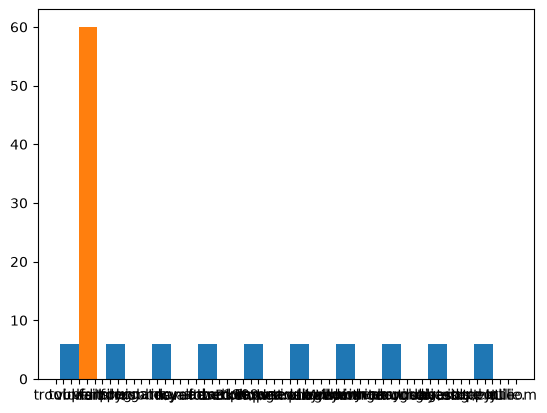
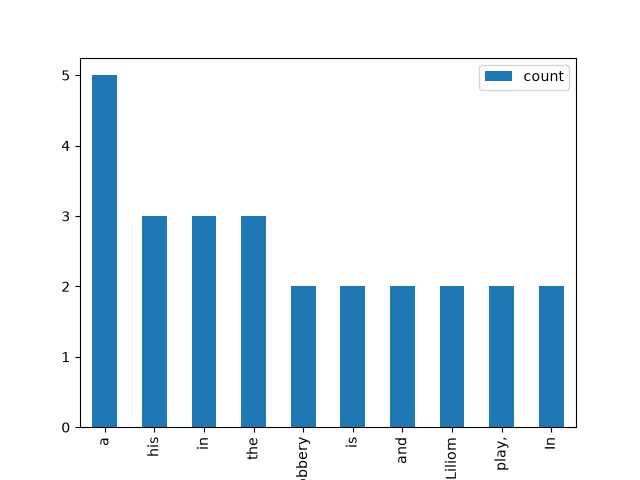
updated

diff --git a/.ipynb_checkpoints/MapReduce_InvertedIndex-checkpoint.py b/.ipynb_checkpoints/MapReduce_InvertedIndex-checkpoint.py
@@ -1,0 +1,69 @@
+from mrjob.job import MRJob
+import pandas as pd
+import matplotlib.pyplot as plt
+import re
+
+# Regular expression to get clean words (removing punctuation)
+WORD_RE = re.compile(r"[\w']+")
+
+class InvertedIndexAndFrequency(MRJob):
+    
+    def mapper_init(self):
+        # Initialize a line counter for this split/file mapper instance
+        self.line_number = 0
+
+    def mapper(self, _, line):
+        self.line_number += 1
+        # break down line into individual clean words 
+        for word in WORD_RE.findall(line):
+            word_lower = word.lower()
+            # Yield word as key, and a dictionary containing line occurrence and a count of 1
+            yield (word_lower, {"line": self.line_number, "count": 1})
+              
+    def reducer(self, word, values):
+        total_count = 0
+        lines_found = set() #datatype store an unordered collection of unique items
+        
+        # add counts and unique line numbers for each word
+        for val in values:
+            total_count += val["count"]
+            lines_found.add(val["line"])
+            
+        # Yield the word mapping to its frequency and sorted list of lines
+        yield (word, {"count": total_count, "lines": sorted(list(lines_found))})
+
+if __name__ == '__main__':
+    # Simulating data execution using 'inputtext1.txt'
+    mr_job = InvertedIndexAndFrequency(args=['inputtext1.txt'])
+    results = []
+    
+    with mr_job.make_runner() as runner:
+        runner.run()
+        for key, value in mr_job.parse_output(runner.cat_output()):
+            results.append({
+                'word': key, 
+                'count': value['count'], 
+                'lines': value['lines']
+            })
+            
+    #print the sample inverted index dictionary items
+    print("Inverted Index Sample (First 5):")
+    print(results[:5])
+    
+    #build Pandas DataFrame
+    wordCount_df = pd.DataFrame(results)
+    
+    print("\nPandas DataFrame Head (Inverted Index Mapping):")
+    print(wordCount_df[['word', 'lines', 'count']].head())
+    
+    # display chart of frequently occuring words
+    top_words = wordCount_df.sort_values(by="count", ascending=False).head(10)
+    print("\nTop 10 Most Frequent Words:")
+    print(top_words[['word', 'count']])
+    
+    #plot
+    top_words.plot(x="word", y="count", kind="bar", color="skyblue")
+    plt.title("Top 10 Most Frequent Words")
+    plt.ylabel("Occurrences")
+    plt.savefig("word_count_chart.png")
+    print("\nPlot saved successfully as 'word_count_chart.png'")
